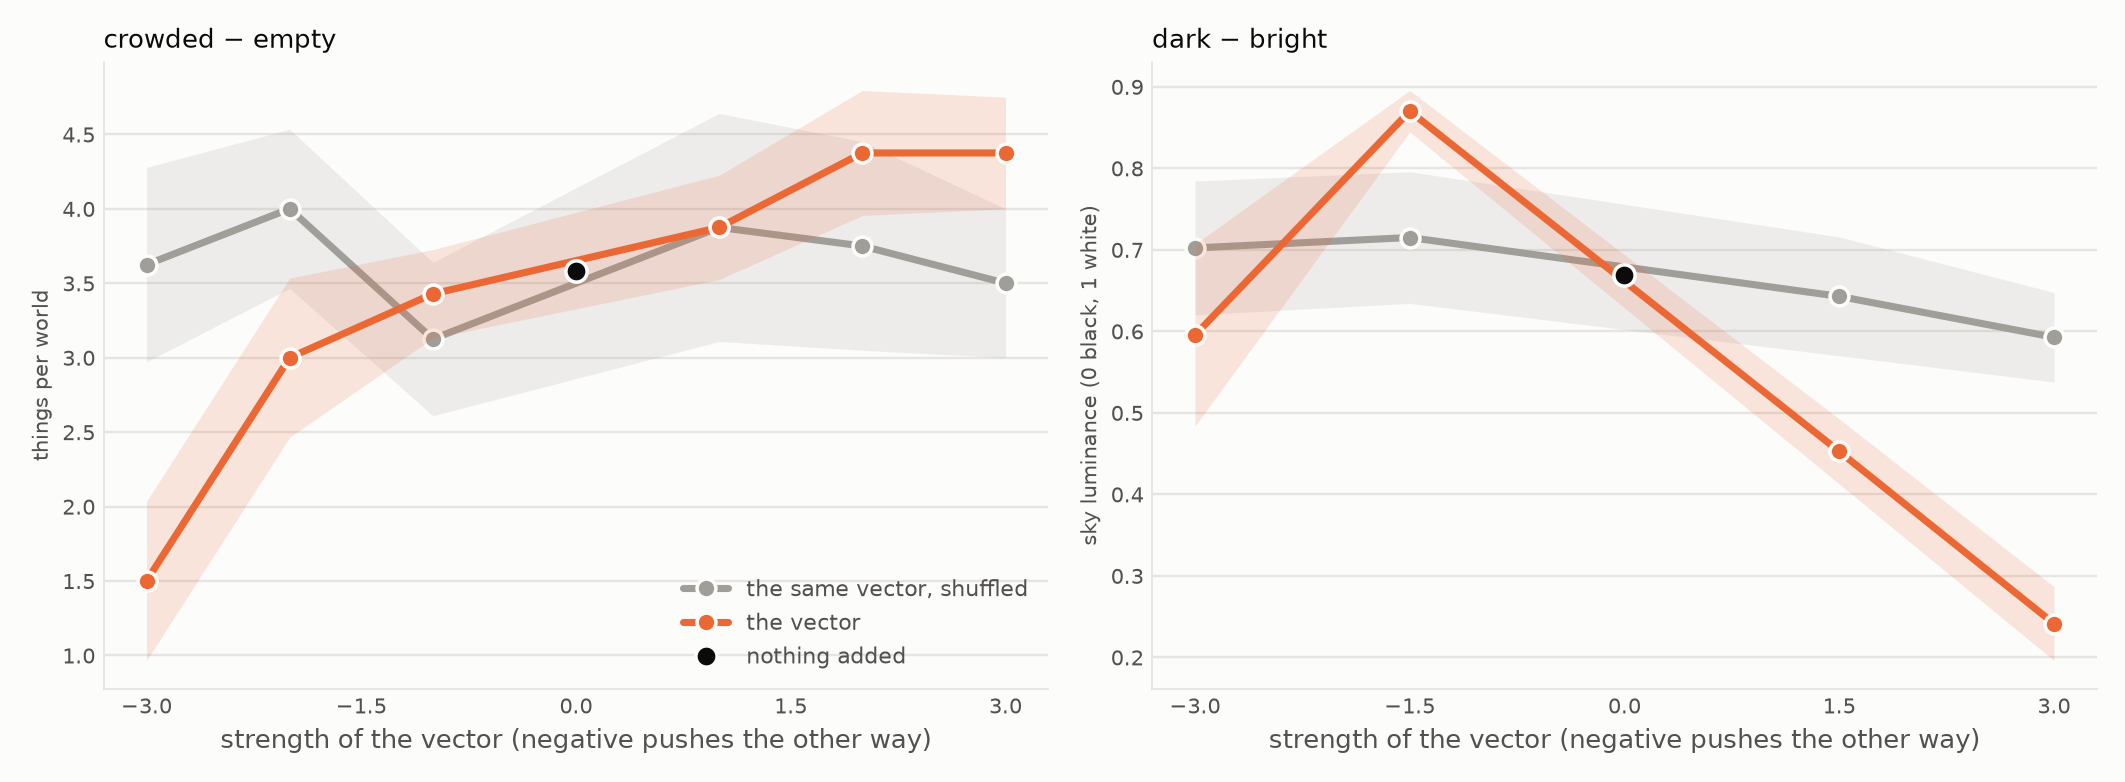
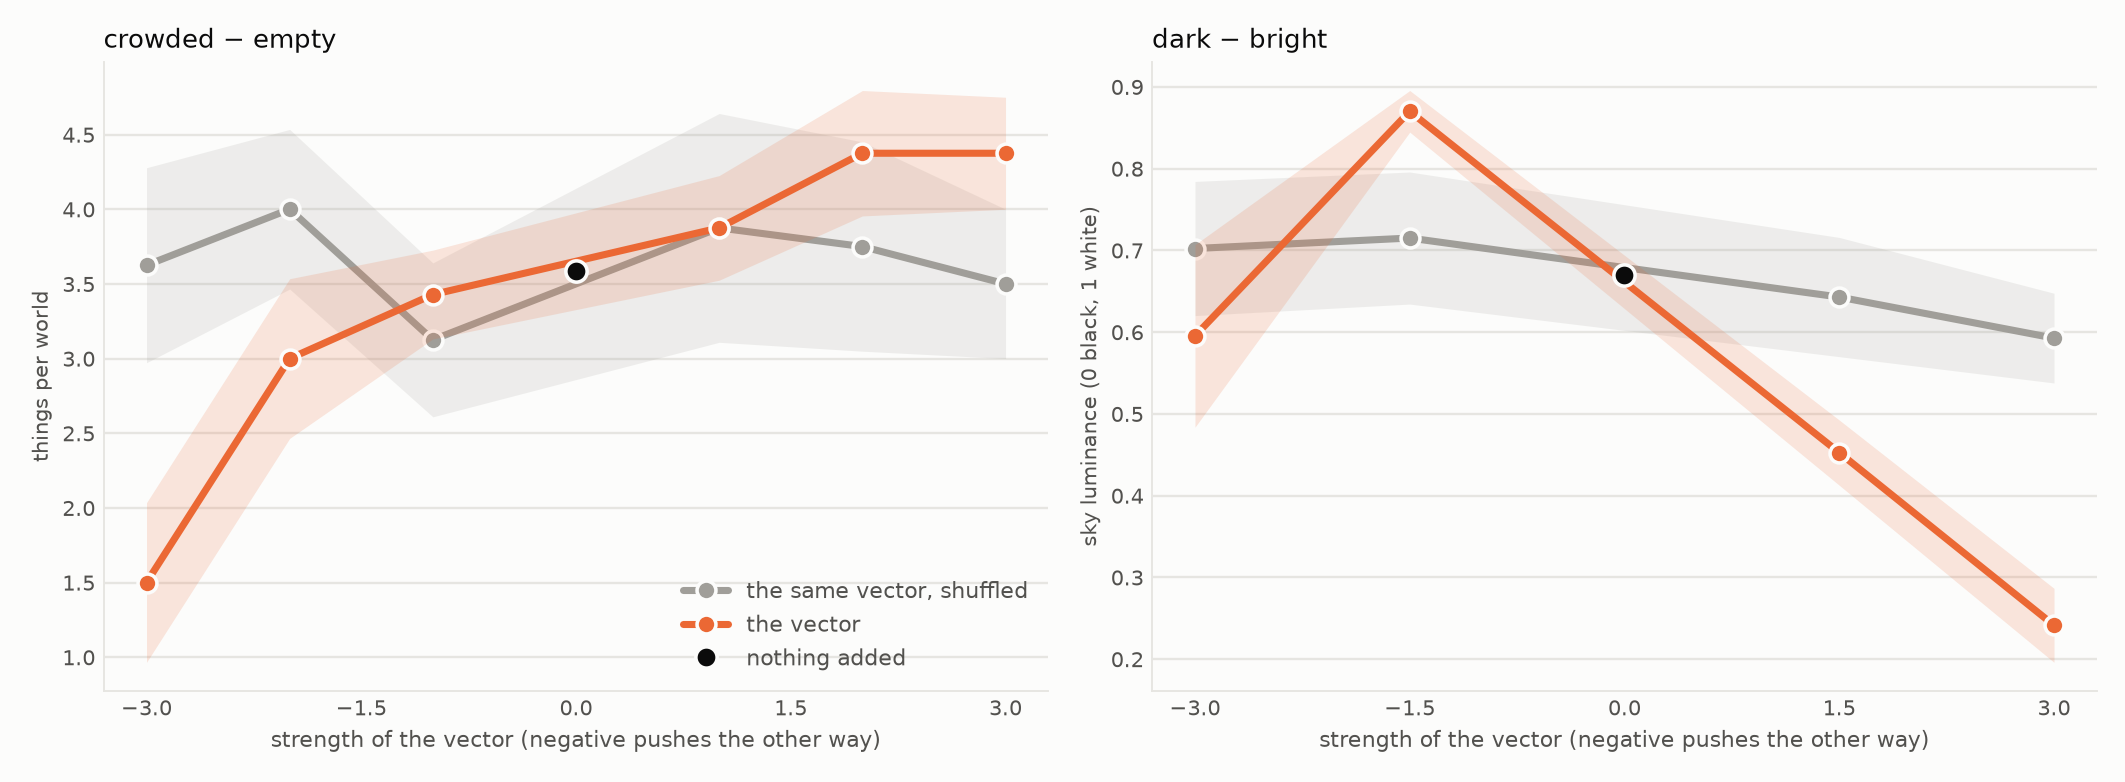
the readers step out of summarize; three more sliders on the plot

diff --git a/steeropathy/worldof.py b/steeropathy/worldof.py
@@ -339,6 +339,40 @@ def _mode(values):
     return best, values.count(best)
 
 
+def read_count(w, kind):
+    # the page allows three to six things; a list that loops past that
+    # is a loop, not a crowd, so counts are capped at 6 per world
+    ks = kinds_of(w)
+    return min(6, len(ks) if kind is None else sum(1 for k in ks if k == kind))
+
+def read_lum(w):
+    ls = [lum(c) for c in (w.get("sky") or []) if isinstance(c, str)]
+    ls = [x for x in ls if x is not None]
+    return sum(ls) / len(ls) if ls else None
+
+HOURS = {"dawn": 0, "sunrise": 0, "morning": 0.5, "noon": 1, "midday": 1, "afternoon": 1.5,
+         "dusk": 2, "sunset": 2, "evening": 2.5, "night": 3, "midnight": 3}
+
+def read_hour(w):
+    return HOURS.get(_val(w, "time"))
+
+def read_poem_words(w):
+    lines = [l for l in (w.get("lines") or []) if isinstance(l, str)]
+    return float(sum(len(l.split()) for l in lines)) if lines else None
+
+def read_warmth(w):
+    # hue as an angle: red 0, yellow 60, blue 240; warmth = cos of the hue
+    # angle, so red/orange → +1, blue → −1
+    import math
+    from .secondhand import hue as _hue
+    hs = [_hue(c) for c in (w.get("sky") or []) if isinstance(c, str)]
+    hs = [h for h in hs if h is not None]
+    return sum(math.cos(math.radians(h)) for h in hs) / len(hs) if hs else None
+
+# the readers for a target field; count needs the kind, the rest take the world
+READERS = {"count": None, "lum": read_lum, "hour": read_hour, "poem_words": read_poem_words, "warmth": read_warmth}
+
+
 def summarize(runs, example=None):
     """Per direction and kind: parse rate; per field the share of worlds
     that left the unsteered mode (``moved``) and where they went (the modal
@@ -399,37 +433,6 @@ def summarize(runs, example=None):
         d["hue_vs_base"] = round(sum(hs) / len(hs), 3) if hs else None
     out["base"]["dark_self"] = round(base_dark, 3) if base_dark is not None else None
     # a LIKES direction has a target field: how often did the worlds reach it?
-    def _count(w, kind):
-        # the page allows three to six things; a list that loops past that
-        # is a loop, not a crowd, so counts are capped at 6 per world
-        ks = kinds_of(w)
-        return min(6, len(ks) if kind is None else sum(1 for k in ks if k == kind))
-
-    def _lum(w):
-        ls = [lum(c) for c in (w.get("sky") or []) if isinstance(c, str)]
-        ls = [x for x in ls if x is not None]
-        return sum(ls) / len(ls) if ls else None
-
-    HOURS = {"dawn": 0, "sunrise": 0, "morning": 0.5, "noon": 1, "midday": 1, "afternoon": 1.5,
-             "dusk": 2, "sunset": 2, "evening": 2.5, "night": 3, "midnight": 3}
-
-    def _hour(w):
-        return HOURS.get(_val(w, "time"))
-
-    def _poem_words(w):
-        lines = [l for l in (w.get("lines") or []) if isinstance(l, str)]
-        return float(sum(len(l.split()) for l in lines)) if lines else None
-
-    def _warmth(w):
-        # hue as an angle: red 0, yellow 60, blue 240; warmth = cos of the hue
-        # angle, so red/orange → +1, blue → −1
-        import math
-        from .secondhand import hue as _hue
-        hs = [_hue(c) for c in (w.get("sky") or []) if isinstance(c, str)]
-        hs = [h for h in hs if h is not None]
-        return sum(math.cos(math.radians(h)) for h in hs) / len(hs) if hs else None
-
-    READERS = {"count": None, "lum": _lum, "hour": _hour, "poem_words": _poem_words, "warmth": _warmth}
     for key, d in out.items():
         base_name = key.replace(" (placebo)", "")
         if base_name.startswith("many") and base_name not in LIKES:
@@ -443,7 +446,7 @@ def summarize(runs, example=None):
             if field in READERS:
                 ws = [r["world"] for r in runs if r.get("world") and r.get("name") == base_name
                       and (r.get("kind") == "placebo") == key.endswith("(placebo)")]
-                f = (lambda w: _count(w, value)) if field == "count" else READERS[field]
+                f = (lambda w: read_count(w, value)) if field == "count" else READERS[field]
                 cs = [x for x in (f(w) for w in ws) if x is not None]
                 bs = [x for x in (f(b) for b in bases) if x is not None]
                 names = {"lum": "sky luminance", "hour": "hour (dawn 0 … night 3)", "poem_words": "poem words", "warmth": "sky warmth"}

diff --git a/fig/plot_sliders.py b/fig/plot_sliders.py
@@ -17,7 +17,8 @@ from matplotlib import font_manager  # noqa: E402
 
 HERE = pathlib.Path(__file__).parent.parent
 sys.path.insert(0, str(HERE))
-from steeropathy.secondhand import kinds_of, lum  # noqa: E402
+from steeropathy.secondhand import kinds_of  # noqa: E402
+from steeropathy.worldof import READERS  # noqa: E402
 
 VEC, ROTC, INK, INK2, GRID, SURF = "#eb6834", "#a09e99", "#0b0b0b", "#52514e", "#e6e5e1", "#fcfcfb"
 PANELS = [  # (glob, direction, kind or None, title, y label)
@@ -29,15 +30,16 @@ PANELS = [  # (glob, direction, kind or None, title, y label)
     ("worldof-14-aorus-1.5b-knob2-s*.json", "manycats", "cat", "many cats − one cat", "cats per world"),
     ("worldof-14-aorus-1.5b-knob2-s*.json", "manyflowers", "flower", "many flowers − one flower", "flowers per world"),
     ("worldof-14-aorus-1.5b-knob2-s*.json", "manyboats", "boat", "many boats − one boat", "boats per world"),
-    ("worldof-15-aorus-1.5b-dark-s*.json", "darker", "LUM", "dark − bright", "sky luminance (0 black, 1 white)"),
+    ("worldof-15-aorus-1.5b-dark-s*.json", "darker", "lum", "dark − bright", "sky luminance (0 black, 1 white)"),
+    ("worldof-17-aorus-1.5b-more-s*.json", "later", "hour", "late − early", "hour (dawn 0 … night 3)"),
+    ("worldof-17-aorus-1.5b-more-s*.json", "verbose", "poem_words", "verbose − terse", "words in the poem"),
+    ("worldof-17-aorus-1.5b-more-s*.json", "warmer", "warmth", "warm − cold", "sky warmth (blue −1 … red +1)"),
 ]
 
 
 def measure(w, kind):
-    if kind == "LUM":
-        ls = [lum(c) for c in (w.get("sky") or []) if isinstance(c, str)]
-        ls = [x for x in ls if x is not None]
-        return sum(ls) / len(ls) if ls else None
+    if kind in READERS and kind != "count":
+        return READERS[kind](w)
     ks = kinds_of(w)
     return min(6, len(ks) if kind is None else sum(1 for k in ks if k == kind))   # the page's own cap
 
@@ -116,9 +118,9 @@ def main():
         ax.axis("off")
     if len(live) > 2:
         axes[0].legend(loc="upper left", frameon=False, fontsize=8.5, labelcolor=INK2)
-    if len(live) <= 2:
-        for ax in axes[:len(live)]:
-            ax.set_xlabel("strength of the vector (negative pushes the other way)", color=INK2)
+    for ax in axes[:len(live)]:
+        ax.set_xlabel("strength of the vector (negative pushes the other way)", color=INK2, fontsize=9.5)
+    if len(live) <= 3:
         axes[0].legend(loc="best", frameon=False, fontsize=9.5, labelcolor=INK2)
     fig.tight_layout(h_pad=1.2)
     out = pathlib.Path(a.out) if a.out else HERE / "docs" / "worldof-sliders.png"
